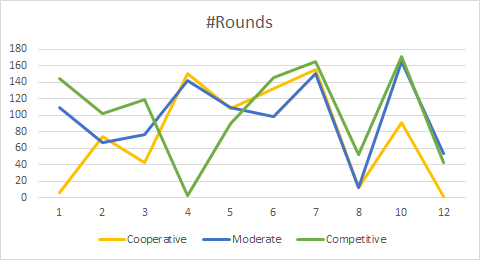
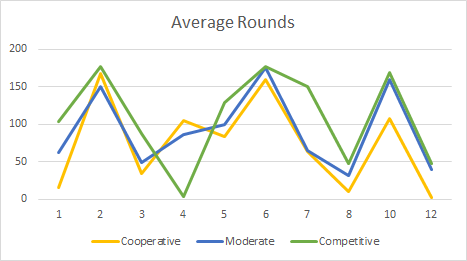
Update Images and start small summary for Test Description

diff --git a/docs/Part2/testdescription.tex b/docs/Part2/testdescription.tex
@@ -1,1 +1,7 @@
 \section{Test Description}
+
+After finishing the first version of our own negotiation agent, we were provided with the negotiation agents of other groups and their domains.
+
+10 tournaments, for every enemy-profilecombination, testing all combinations so 2^3 = 8 sessions per tournament. - Testing every opponent on their own domain (Exception: not 9, and 10 tested on 12-domain, also ignoring sessions n/n/n and 11/11/11 in testing). Also, averaging over all sessions and domain types.
+
+Also note that averages are only taken when agreements are reached. Meaning that there is less data for opponent 2, 6, 7 and 10
